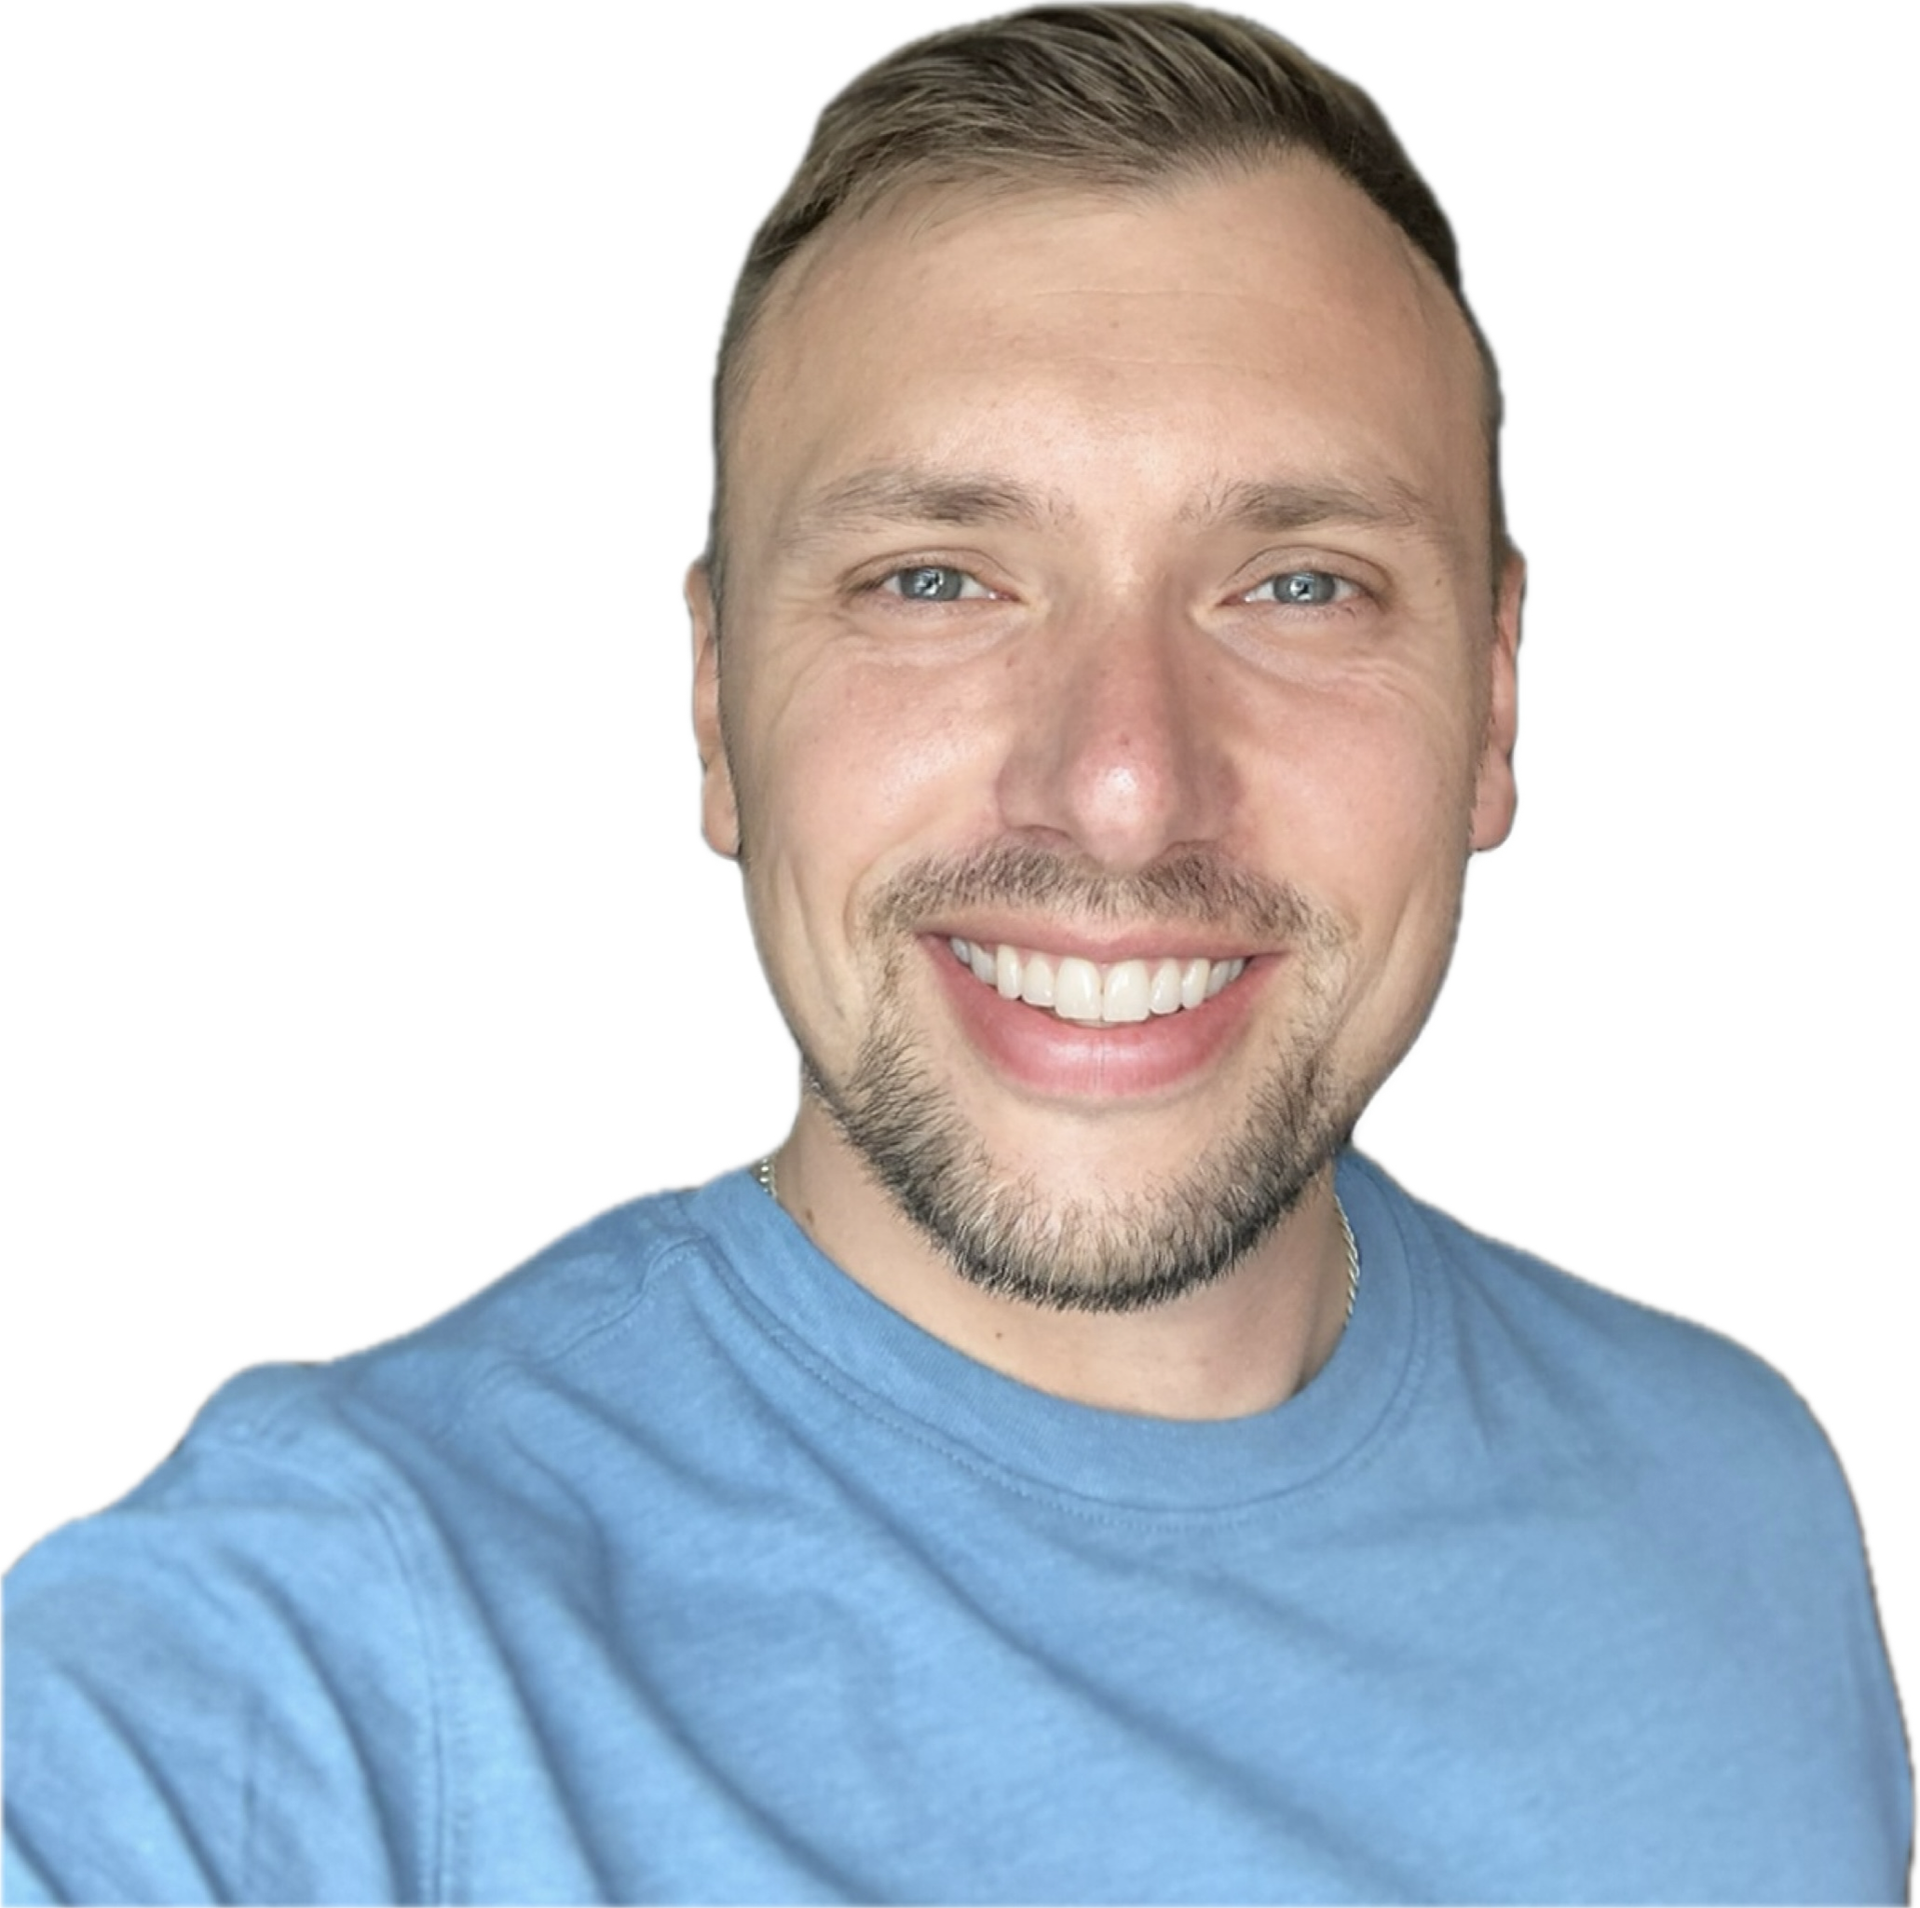
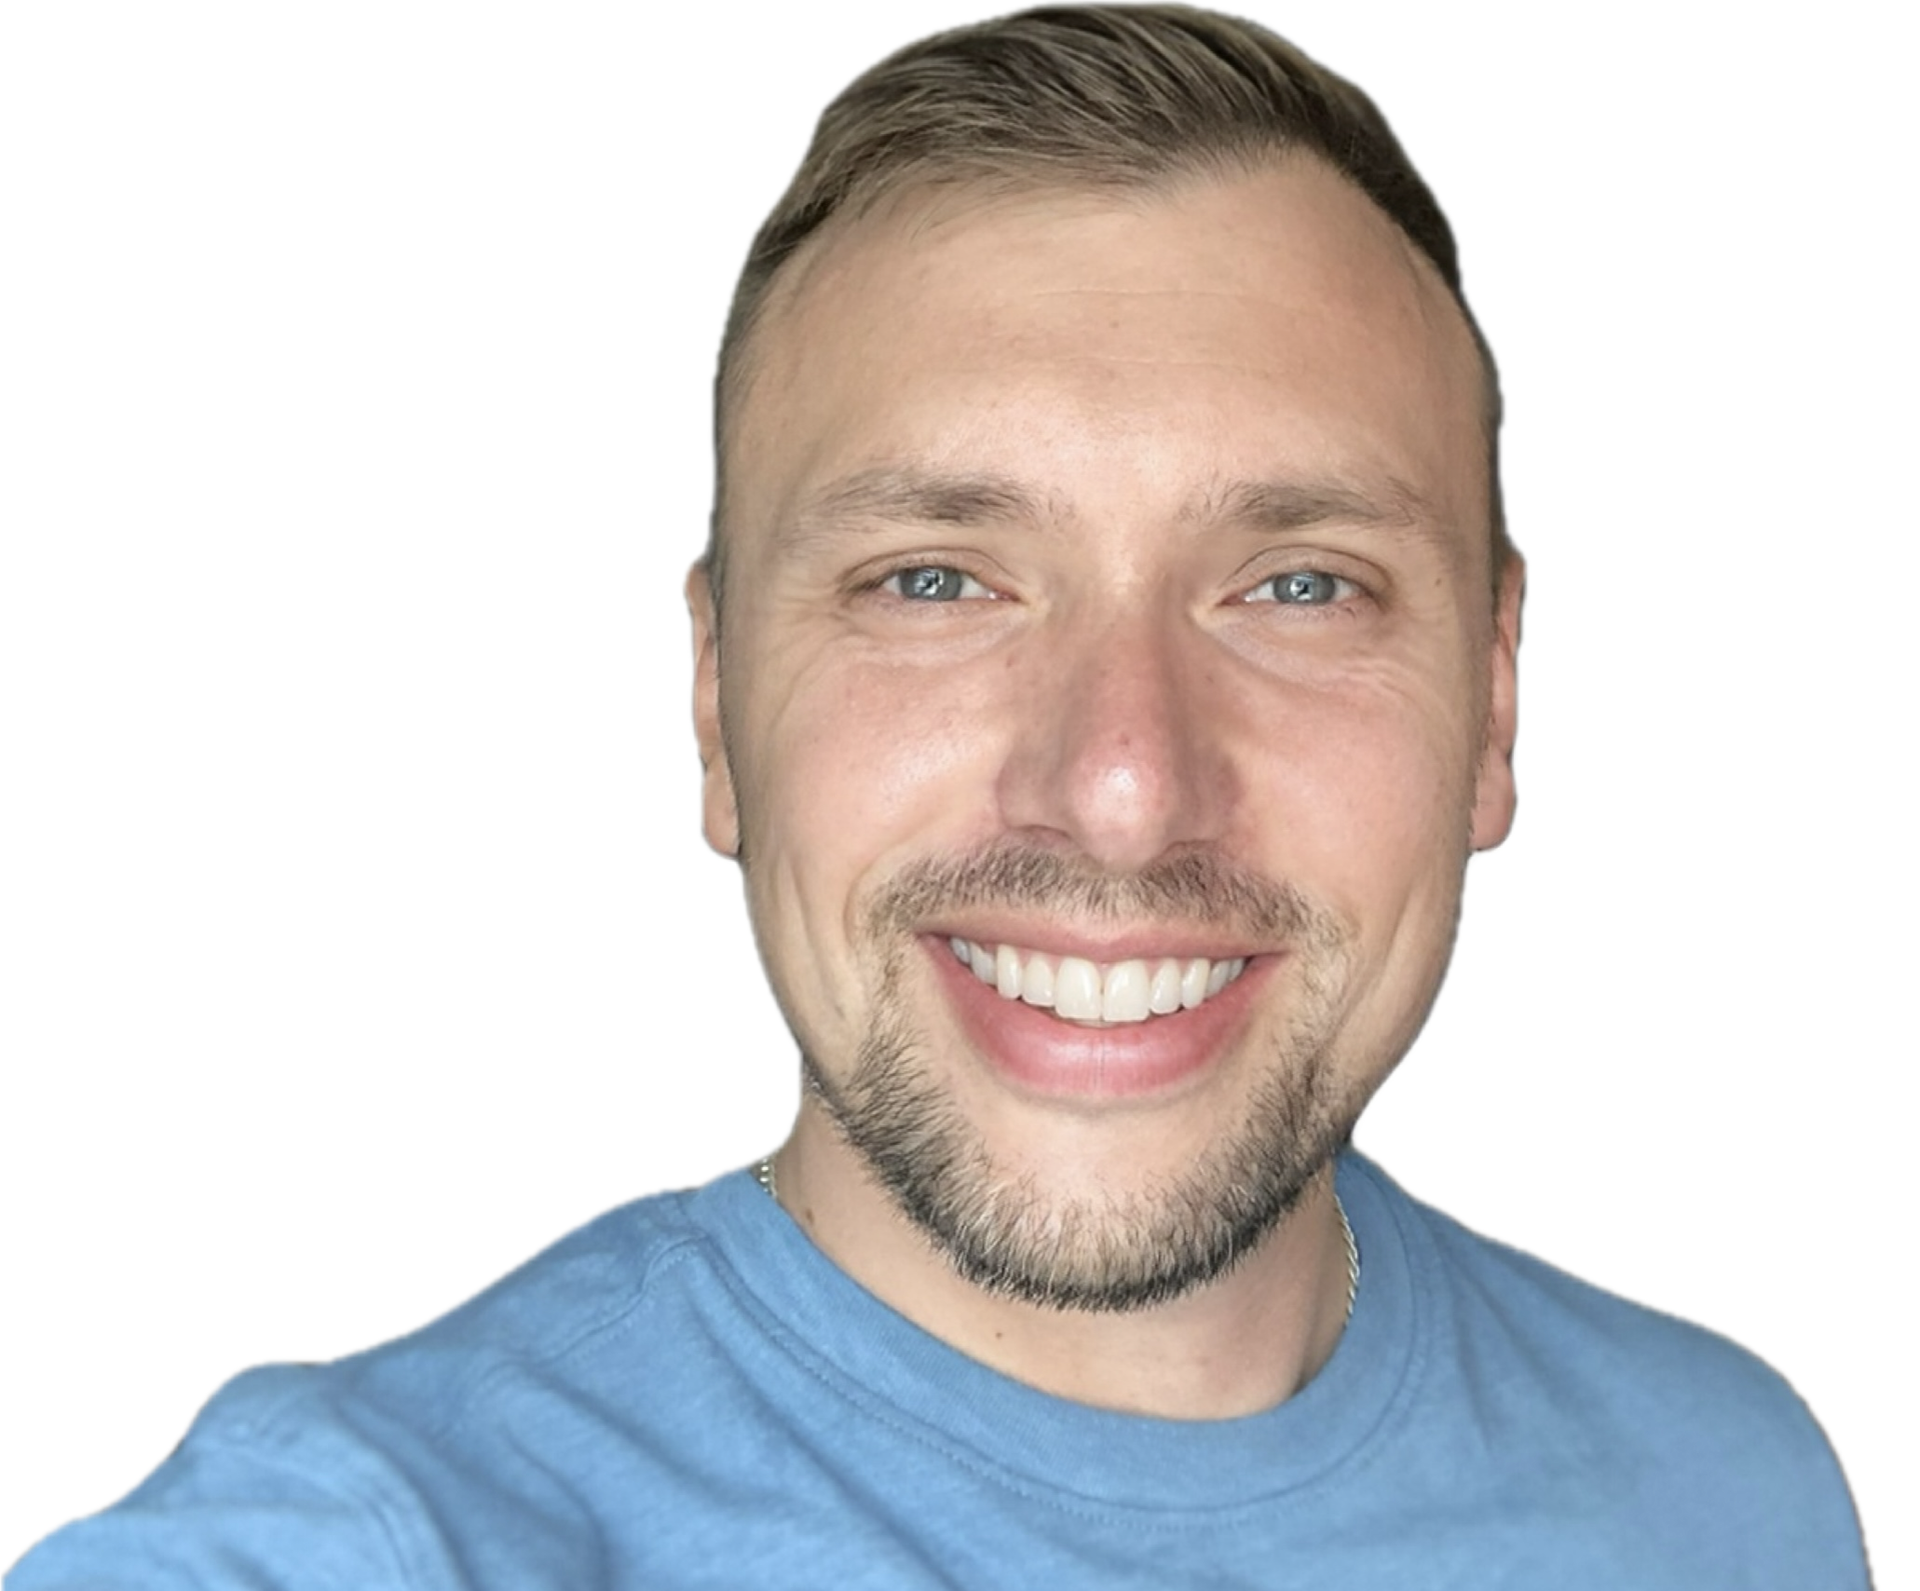
picture test

diff --git a/css/main.css b/css/main.css
@@ -98,7 +98,7 @@ h1 {
 		img {
             z-index: 10000;
 			margin-top:-60px;
-			max-width:705px;
+			max-width:420px;
 			margin-bottom: 0px;         
 		}
 	}
